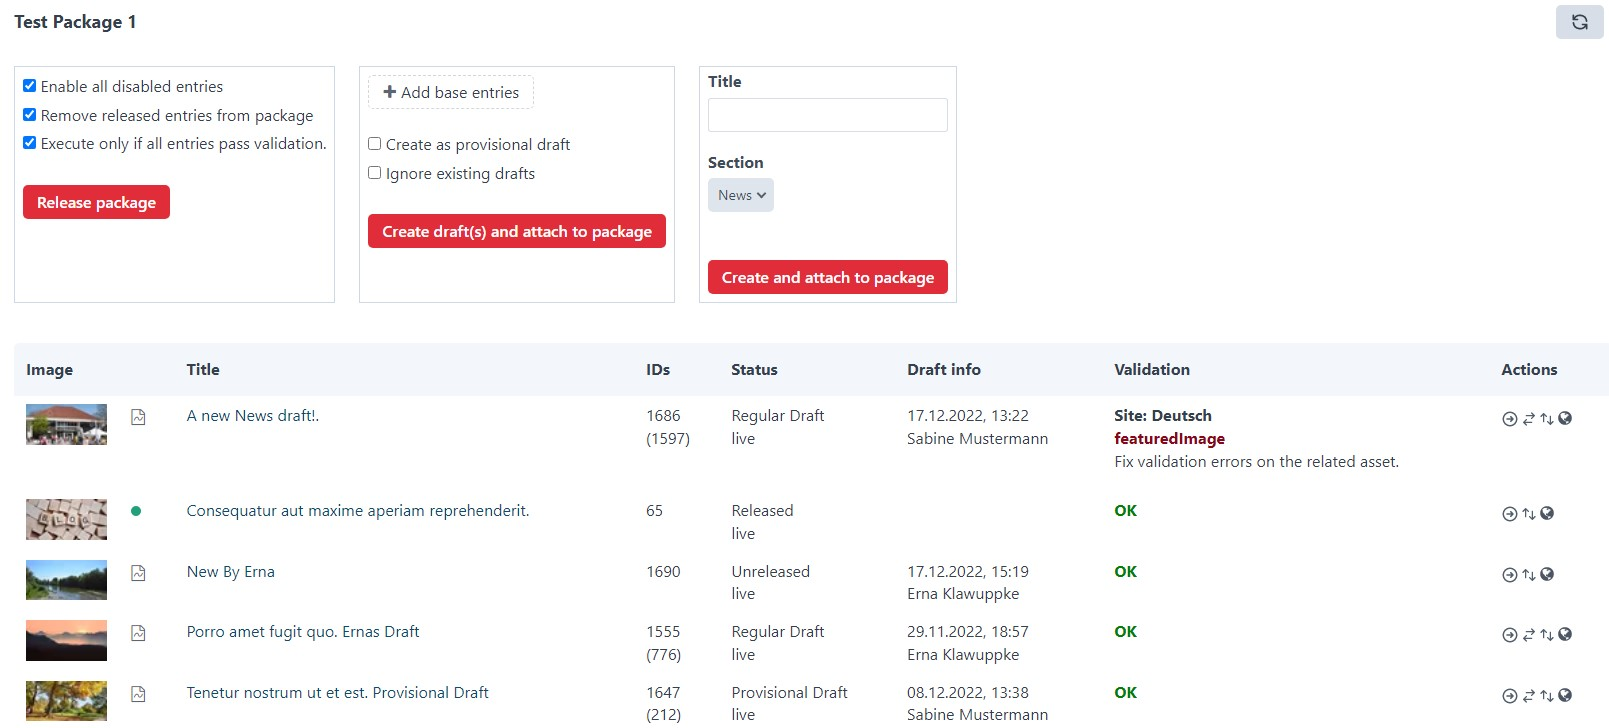
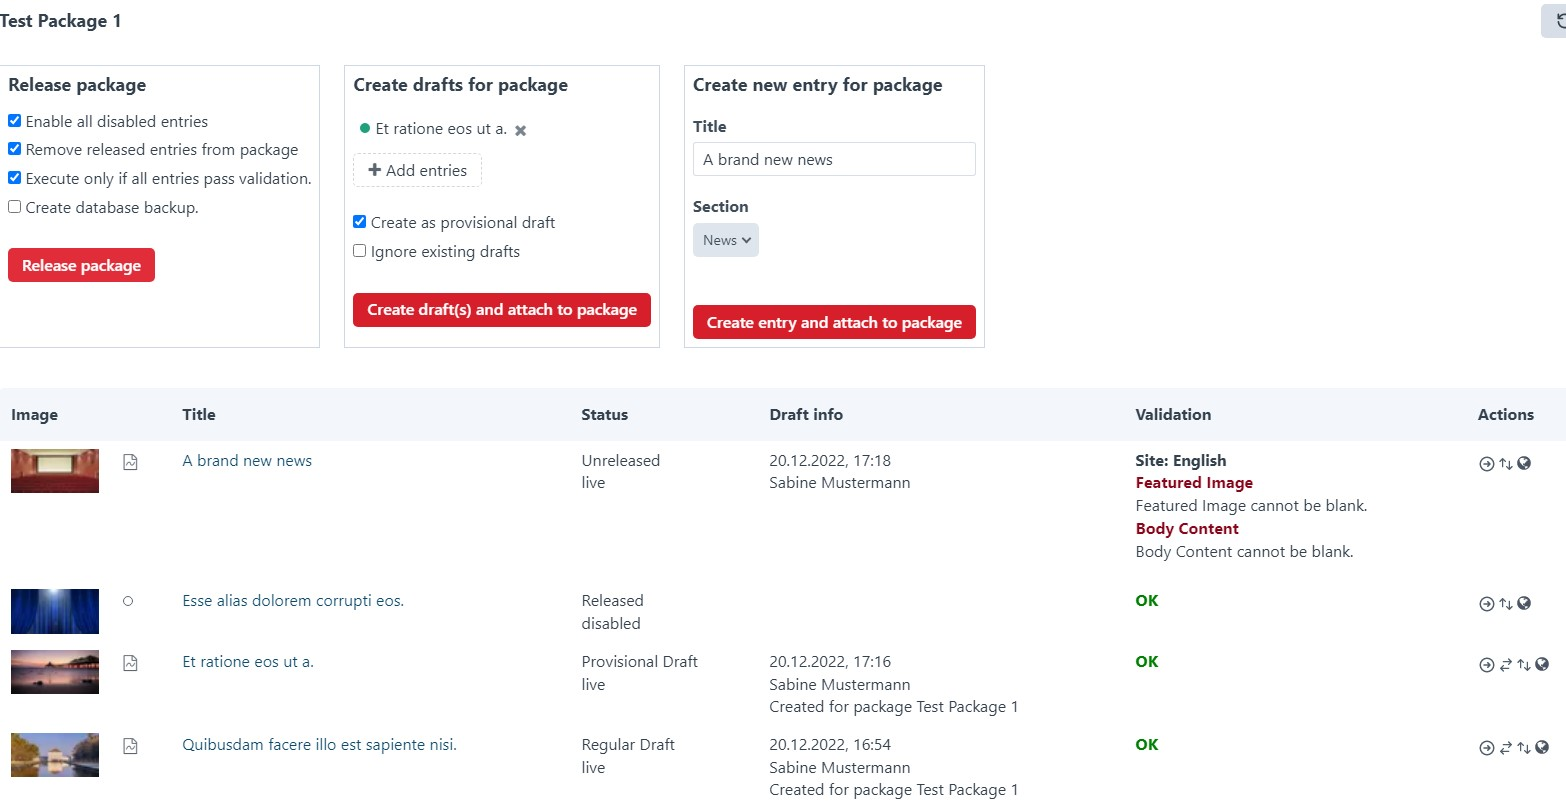
wip

diff --git a/src/services/MigrationService.php b/src/services/MigrationService.php
@@ -1,0 +1,165 @@
+<?php
+
+namespace wsydney76\package\services;
+
+use Craft;
+use craft\fieldlayoutelements\CustomField;
+use craft\fields\Entries;
+use craft\helpers\App;
+use craft\models\FieldGroup;
+use craft\models\Section;
+use craft\models\Section_SiteSettings;
+use craft\records\FieldGroup as FieldGroupRecord;
+use modules\main\helpers\FileHelper;
+use wsydney76\contentoverview\Plugin;
+use wsydney76\package\fields\MaintainPackage;
+use yii\base\Component;
+use yii\base\Exception;
+
+/**
+ * Migration Service service
+ */
+class MigrationService extends Component
+{
+
+    public function install(): bool
+    {
+
+        // Create field group package
+        $fieldGroup = $this->getFieldGroup('Package');
+        if (!$fieldGroup) {
+            $fieldGroup = new FieldGroup([
+                'name' => 'Package',
+            ]);
+
+            if (!Craft::$app->fields->saveGroup($fieldGroup)) {
+                return false;
+            }
+        }
+
+        // Create maintain package field
+        $maintainPackageField = Craft::$app->fields->getFieldByHandle('paPackage');
+        if (!$maintainPackageField) {
+            $maintainPackageField = new MaintainPackage([
+                'groupId' => $fieldGroup->id,
+                'name' => 'Maintain Package',
+                'handle' => 'paMaintainPackage'
+            ]);
+
+            if (!Craft::$app->fields->saveField($maintainPackageField)) {
+                return false;
+            }
+        }
+
+
+        // Create package section
+        $section = Craft::$app->sections->getSectionByHandle('paPackage');
+        if (!$section) {
+            $section = new Section([
+                    'name' => 'Package',
+                    'handle' => 'paPackage',
+                    'type' => Section::TYPE_CHANNEL,
+                    'siteSettings' => collect(Craft::$app->sites->getAllSites())
+                        ->map(fn($section) => new Section_SiteSettings([
+                            'siteId' => $section->id,
+                            'enabledByDefault' => true,
+                            'hasUrls' => false
+                        ]))
+                        ->toArray()
+                ]
+            );
+
+            if (!Craft::$app->sections->saveSection($section)) {
+                return false;
+            }
+
+            // Attach maintain package field to field layout
+            $type = $section->getEntryTypes()[0];
+            $layout = $type->getFieldLayout();
+            $tab = $layout->getTabs()[0];
+
+            $tab->setElements(array_merge($tab->getElements(), [
+                new CustomField($maintainPackageField)
+            ]));
+
+
+            Craft::$app->fields->saveLayout($layout);
+        }
+
+        // Create package field
+        $packageField = Craft::$app->fields->getFieldByHandle('paPackage');
+
+        if (!$packageField) {
+            $packageField = new Entries([
+                'groupId' => $fieldGroup->id,
+                'name' => 'Package',
+                'handle' => 'paPackage',
+                'sources' => [
+                    "section:$section->uid"
+                ]
+            ]);
+
+            if (!Craft::$app->fields->saveField($packageField)) {
+                return false;
+            }
+        }
+
+        // Create package.php plugin settings file
+        try {
+            $dir = App::parseEnv('@config');
+            $dest = $dir . DIRECTORY_SEPARATOR . 'package.php';
+            if (!is_file($dest)) {
+                $source = App::parseEnv('@wsydney76/package/scaffold/config.txt');
+                copy($source, $dest);
+            }
+        } catch (Exception $e) {
+            Craft::warning('Could not copy plugin config package.php: ' . $e->getMessage());
+        }
+
+        // Create package.php page config file
+        try {
+            $dir = App::parseEnv(Plugin::getInstance()->getSettings()->configPath);
+            $dest = $dir . DIRECTORY_SEPARATOR . 'package.php';
+            if (!is_file($dest)) {
+                if (!is_dir($dir)) {
+                    FileHelper::createDirectory($dir);
+                }
+
+                $source = App::parseEnv('@wsydney76/package/scaffold/package.txt');
+                copy($source, $dest);
+            }
+        } catch (Exception $e) {
+            Craft::warning('Could not copy page config package.php: ' . $e->getMessage());
+        }
+
+        return true;
+    }
+
+
+    public function uninstall(): bool
+    {
+        // Remove package section. This also deletes all package entries and all relations to them
+        $section = Craft::$app->sections->getSectionByHandle('paPackage');
+        if ($section) {
+            if (!Craft::$app->sections->deleteSectionById($section->id)) {
+                return false;
+            }
+        }
+
+        // Remove field group. This also deletes all fields in it.
+        $fieldGroup = $this->getFieldGroup('package');
+        if ($fieldGroup) {
+            if (!Craft::$app->fields->deleteGroupById($fieldGroup['id'])) {
+                return false;
+            }
+        }
+
+        return true;
+    }
+
+    private function getFieldGroup(string $fieldGroup)
+    {
+        return FieldGroupRecord::findOne(['name' => $fieldGroup]);
+    }
+
+}

diff --git a/src/Plugin.php b/src/Plugin.php
@@ -13,8 +13,8 @@ use craft\services\Fields;
 use craft\web\View;
 use wsydney76\package\behaviors\EntryBehavior;
 use wsydney76\package\fields\MaintainPackage;
-use wsydney76\package\fields\TestField;
 use wsydney76\package\models\Settings;
+use wsydney76\package\services\MigrationService;
 use wsydney76\package\services\PackageService;
 use yii\base\Event;
 use const DIRECTORY_SEPARATOR;
@@ -27,6 +27,7 @@ use const DIRECTORY_SEPARATOR;
  * @copyright wsydney76
  * @license MIT
  * @property-read PackageService $packageService
+ * @property-read MigrationService $migrationService
  */
 class Plugin extends BasePlugin
 {
@@ -35,7 +36,10 @@ class Plugin extends BasePlugin
     public static function config(): array
     {
         return [
-            'components' => ['packageService' => PackageService::class],
+            'components' => [
+                'packageService' => PackageService::class,
+                'migrationService' => MigrationService::class
+            ]
         ];
     }
 
@@ -80,6 +84,5 @@ class Plugin extends BasePlugin
             function(RegisterComponentTypesEvent $event) {
                 $event->types[] = MaintainPackage::class;
             });
-
     }
 }

diff --git a/src/models/PackageSection.php b/src/models/PackageSection.php
@@ -33,9 +33,9 @@ class PackageSection extends TableSection
         $this->imageField = Plugin::getInstance()->getSettings()->imageField;
 
         $this->columns = [
-            $co->createTableColumn()
-                ->label('IDs')
-                ->template('package/ids.twig'),
+//            $co->createTableColumn()
+//                ->label('IDs')
+//                ->template('package/ids.twig'),
             $co->createTableColumn()
                 ->label('Status')
                 ->template('package/status.twig'),
@@ -63,6 +63,9 @@ class PackageSection extends TableSection
         }
 
         Craft::$app->view->registerAssetBundle('wsydney76\\package\\assets\\PackageAssetBundle');
+        if (Craft::$app->plugins->isPluginEnabled('work')) {
+            Craft::$app->view->registerAssetBundle('wsydney76\\contentoverview\\assets\\WorkPluginAssetBundle');
+        }
     }
 
 

diff --git a/src/migrations/Install.php b/src/migrations/Install.php
@@ -1,0 +1,23 @@
+<?php
+
+namespace wsydney76\package\migrations;
+
+use Craft;
+use craft\db\Migration;
+use craft\helpers\Console;
+use wsydney76\package\Plugin;
+use function aws_crt_log_to_stdout;
+
+
+class Install extends Migration
+{
+    public function safeUp(): bool
+    {
+        return Plugin::getInstance()->migrationService->install();
+    }
+
+    public function safeDown(): bool
+    {
+        return Plugin::getInstance()->migrationService->uninstall();
+    }
+}

diff --git a/src/models/PackagesSection.php b/src/models/PackagesSection.php
@@ -9,7 +9,7 @@ use wsydney76\contentoverview\Plugin;
 
 class PackagesSection extends Section
 {
-    public array|string $section = 'package';
+    public array|string $section = 'paPackage';
 
     public ?string $layout = 'cardlets';
 

diff --git a/src/models/Settings.php b/src/models/Settings.php
@@ -7,5 +7,5 @@ use craft\base\Model;
 class Settings extends Model
 {
     public array|string $imageField = '';
-    public string $relationFieldHandle = 'package';
+    public string $relationFieldHandle = 'paPackage';
 }

diff --git a/README.md b/README.md
@@ -1,9 +1,83 @@
 # Package
 
-Publish packages.
-
-
-Requires [contentoverview plugin](https://github.com/wsydney76/craft-contentoverview).
-
+Releases all drafts/disabled entries assigned to a package in one go.
 
 ![Screenshot](/images/screenshot1.jpg)
+
+## Requirements
+
+This plugin requires Craft CMS 4.3.5 or later and the [contentoverview plugin](https://github.com/wsydney76/craft-contentoverview)..
+
+## Installation
+
+Run `composer require wsydney76/craft-package` (coming soon...)
+
+Run `craft plugin/install package` or install from settings/plugin page in the Control Panel.
+
+## Further steps
+
+* Edit the `config/contentoverview/package.php`  file (unless reconfigured) and add the sections handled by this plugin.
+
+```php
+$co->createSection(PackageSection::class)
+    ->section(['news', 'page'])
+```
+
+* Edit the `config/package.php` file and set the image field handle(s) for the sections handled by this plugin.
+See [docs](https://wsydney76.github.io/craft-contentoverview/config/page-config.html#multi-section-setup) if multiple sections with different fields are used.
+
+```php
+<?php
+
+return [
+    'imageField' => 'featuredImage'
+];
+```
+
+* Add the `Package` field to all sections handled by this plugin.
+
+## Usage
+
+* Create a `Package` entry.
+* Assign drafts/entries to this package via the `Package` field.
+* Maintain your package via the package entries.
+
+![Screenshot](/images/package.jpg)
+
+* or via the `Maintain Package` colum in the entries index.
+
+![Screenshot](/images/elementindex.jpg)  
+
+You can also add a section to your pages setup of the ContentOverview plugin.
+
+```php
+
+// config/contentoverview/pages.php
+
+...
+ $co->createPage('packages')
+        ->label('Packages'),
+...
+
+// config/contentoverview/packages.php
+
+<?php
+
+use wsydney76\contentoverview\Plugin;
+use wsydney76\package\models\PackagesSection;
+
+
+$co = Plugin::getInstance()->contentoverview;
+
+return [
+    'tabs' => [
+        $co->createTab('Create', [
+            $co->createColumn(12, [
+                $co->createSection(PackagesSection::class)
+                    ->imageField('featuredImage')
+                    ->size('medium')
+            ])
+        ])
+    ]
+];
+```
